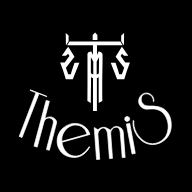
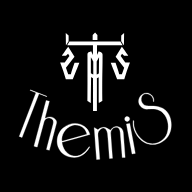
2026-10-24 22:00 アイコンの文字を細めにそろえる

Changed region(s): [[0.0938, 0.4688, 0.9062, 0.8438]]

diff --git a/sw.js b/sw.js
@@ -1,4 +1,4 @@
-const CACHE = "themis-portal-20261024214318";
+const CACHE = "themis-portal-20261024220039";
 const SHELL = ["./", "./index.html", "./config.js", "./manifest.webmanifest", "./icons/icon-192.png", "./icons/apple-touch-icon.png"];
 self.addEventListener("install", (e) => { self.skipWaiting(); e.waitUntil(caches.open(CACHE).then((c) => c.addAll(SHELL)).catch(() => {})); });
 self.addEventListener("activate", (e) => e.waitUntil(
